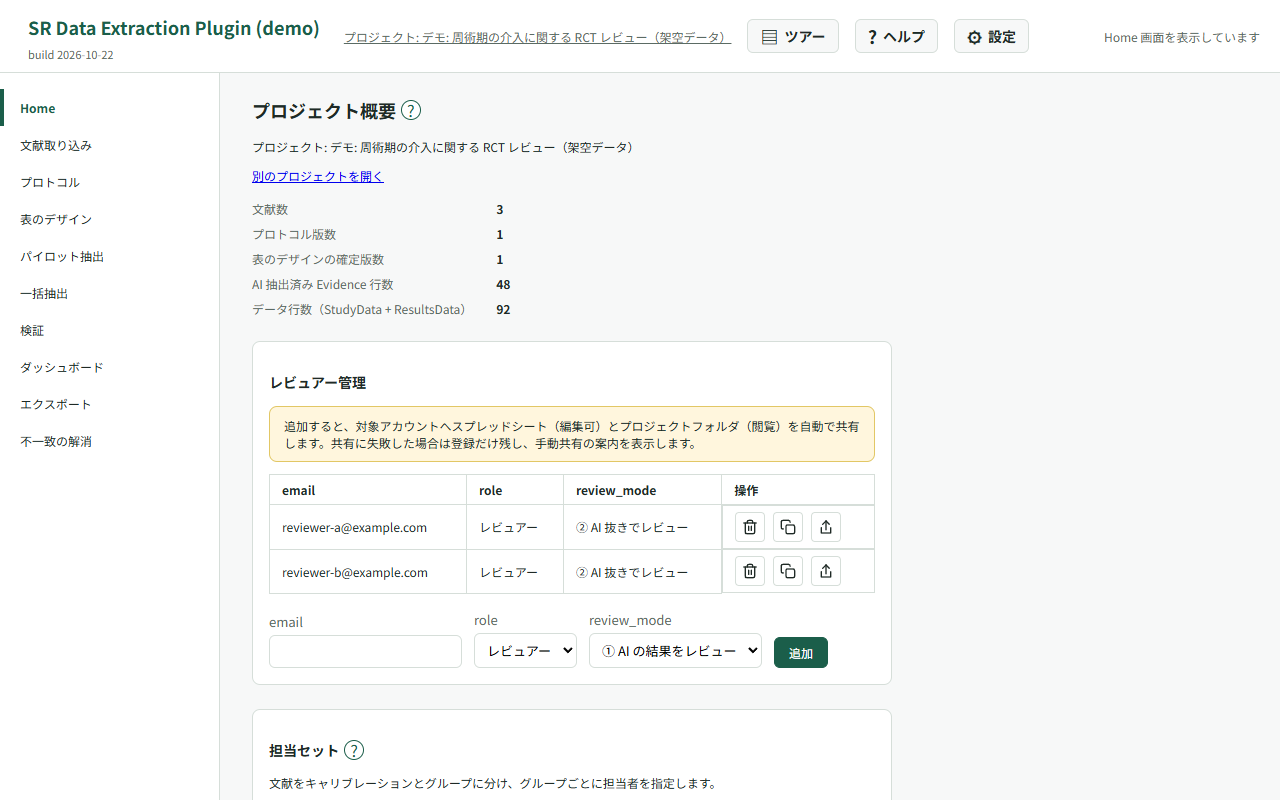
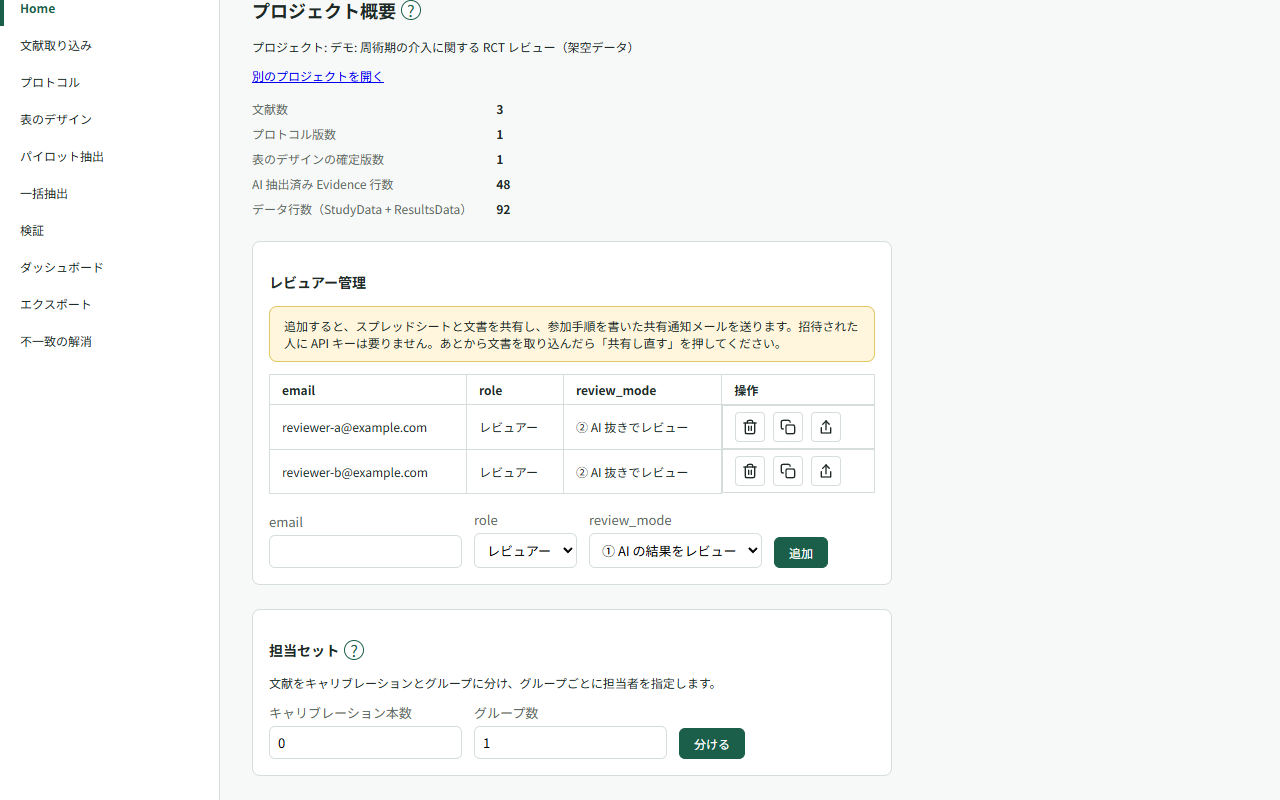
公開ページを再デプロイ（2026-11-03・master 82421c3）

diff --git a/help.html b/help.html
@@ -3,7 +3,7 @@
      正典はこのファイル（master の hosted/）。デプロイ手順は hosted/README.md を参照。
      内容はワークフローレベルに留める（画面細部はアプリ内のリード文が担う。issue #214 §3）。
      文言は ja / en を両方持ち、表示は lang.js + CSS が片方だけに絞る（併記しない）。
-     version: 2026-10-22 -->
+     version: 2026-11-03 -->
 <html lang="ja">
   <head>
     <meta charset="utf-8" />
@@ -53,8 +53,8 @@
           <span class="en" lang="en">User guide</span>
         </h1>
         <p class="last-updated">
-          <span class="ja" lang="ja">最終更新: 2026-10-22 / 対象バージョン: v0.21.0</span>
-          <span class="en" lang="en">Last updated: 2026-10-22 / Covers v0.21.0</span>
+          <span class="ja" lang="ja">最終更新: 2026-11-03 / 対象バージョン: v0.25.1</span>
+          <span class="en" lang="en">Last updated: 2026-11-03 / Covers v0.25.1</span>
         </p>
 
         <nav class="toc" aria-label="目次" data-en-aria-label="Table of contents">
@@ -600,18 +600,18 @@
           </h3>
           <p>
             <span class="ja" lang="ja"
-              >文献を取り込んだら、オーナーが Home の「担当セット」で「キャリブレーション本数」と「グループ数」を入力し、「分ける」を押します。文献が無作為に分割され、キャリブレーションは全員の対象になります。各グループには担当者のメールアドレスをカンマ区切りで入力し、「保存」を押します。</span
+              >文献を取り込んだら、オーナーが Home の「担当セット」で「キャリブレーション本数」と「グループ数」を入力し、「分ける」を押します。除外した文献は割り振りの対象になりません。文献が無作為に分割され、キャリブレーションは全員の対象になります。各グループには担当者のメールアドレスをカンマ区切りで入力し、「保存」を押します。</span
             >
             <span class="en" lang="en"
-              >After importing studies, the owner opens “Review sets” on Home, enters “Calibration studies” and “Number of groups”, then presses “Split”. Studies are randomly divided, with calibration studies assigned to everyone. Enter comma-separated reviewer email addresses for each group and press “Save”.</span
+              >After importing studies, the owner opens “Review sets” on Home, enters “Calibration studies” and “Number of groups”, then presses “Split”. Excluded documents are not included when assigning review sets. Studies are randomly divided, with calibration studies assigned to everyone. Enter comma-separated reviewer email addresses for each group and press “Save”.</span
             >
           </p>
           <p>
             <span class="ja" lang="ja"
-              >担当セットを使うと、レビュアーの検証対象はキャリブレーションと自分の担当グループに絞られます。オーナーは検証画面の「自分の担当のみ」で絞り込めます。追加した文献は「未割当の study」から割り当てます。「分け直す」は確認後、すべてのアクティブな試験の担当セットを上書きします。</span
+              >担当セットを使うと、レビュアーの検証対象はキャリブレーションと自分の担当グループに絞られます。担当文献をすべて除外しても担当外の文献は表示されず、対象は 0 件になります。検証画面の一覧では、キャリブレーションの文献に［キャリブレーション］と表示され、先頭に並びます。オーナーは検証画面の「自分の担当のみ」で絞り込めます。追加した文献は「未割当の study」から割り当てます。「分け直す」は確認後、すべてのアクティブな試験の担当セットを上書きします。</span
             >
             <span class="en" lang="en"
-              >With review sets in use, reviewers see calibration studies and their assigned groups in verification. The owner can filter with “Only my assigned studies”. Assign newly added studies under “Unassigned studies”. After confirmation, “Split again” replaces the assignments for all active studies.</span
+              >With review sets in use, reviewers see calibration studies and their assigned groups in verification. If all assigned studies are excluded, the list is empty and studies outside their assignments remain hidden. In the verification list, calibration studies are labeled [Calibration] and appear first. The owner can filter with “Only my assigned studies”. Assign newly added studies under “Unassigned studies”. After confirmation, “Split again” replaces the assignments for all active studies.</span
             >
           </p>
           <p>
@@ -1504,12 +1504,12 @@
             <span class="ja" lang="ja"
               >2 名で独立に抽出し、不一致を裁定する運用に対応しています。オーナーが Home
               の「レビュアー管理」で共同研究者のメールアドレスを登録し、モード（AI 抽出を見ながらの検証 = with AI / AI
-              を見ずに自分で入力 = independent）を選びます。「フォルダ未共有」が表示されたら、その行の「フォルダを共有し直す」でシートとフォルダを共有し直せます。共有に失敗した場合は、カード内の警告に従って Drive から手動で共有してください。</span
+              を見ずに自分で入力 = independent）を選びます。追加すると、参加手順を書いた共有通知メールが相手に届き、行の「レビュー依頼文をコピー」でも同じ文面をコピーできます。招待された人に API キーは要らず、質問パネルを使うときだけ各自のキーを設定します。「未共有のファイルあり」が表示されたら、その行の「共有し直す」でシートとフォルダを共有し直せます。フォルダで共有できないときは、除外していない文書の PDF と抽出テキストを 1 つずつ共有します。あとから文書を取り込んだ場合も「共有し直す」を押してください。共有に失敗した場合は、カード内の警告に従って Drive から手動で共有してください。</span
             >
             <span class="en" lang="en"
               >Two reviewers can extract independently and have disagreements adjudicated. The owner registers
               collaborators by email under “Reviewer management” on Home and picks their mode (verify with AI, or
-              independent entry without seeing AI output). If “Folder not shared” appears, use “Share the folder again” on that row to share the sheet and folder again. If sharing fails, follow the warning in the card to share manually in Drive.</span
+              independent entry without seeing AI output). Adding a collaborator sends them a sharing notification email with instructions for joining; “Copy the review invitation” on the row copies the same text. Invitees do not need an API key unless they use the question panel, which requires their own key. If “Some files not shared” appears, use “Share again” on that row to share the sheet and folder again. If folder sharing fails, PDFs and extracted text for non-excluded documents are shared one file at a time. Use “Share again” after importing more documents too. If sharing fails, follow the warning in the card to share manually in Drive.</span
             >
           </p>
           <figure class="shot shot--screen">
@@ -1799,11 +1799,13 @@
             <li>
               <span class="ja" lang="ja"
                 ><strong>保存して接続を確認</strong>: 押すと、設定を保存し、モデル一覧を取得し（取得できる方式のみ）、選んだモデルで短い呼び出しを送って、結果を
-                1 行で表示します。失敗したときは、API キーが受け付けられなかったのか、モデルがその方式に無いのかなど、どこで失敗したかを示します。取得したモデルは、スキーマ・パイロット・一括抽出の画面のモデル選択にも出ます。</span
+                1 行で表示します。Gemini の無料の API キーでは確認に数分かかることがあり、10 秒後から経過秒数を表示します。設定は保存済みなので、別の画面へ移っても構いません。5 分で確認を打ち切ります。失敗したときは、API キーが受け付けられなかったのか、モデルがその方式に無いのかなど、どこで失敗したかを示します。取得したモデルは、スキーマ・パイロット・一括抽出の画面のモデル選択にも出ます。</span
               >
               <span class="en" lang="en"
                 ><strong>Save and check connection</strong>: saves the settings, fetches the model list (where the type
-                supports it), sends a short call with the chosen model, and shows the result on one line. On failure it
+                supports it), sends a short call with the chosen model, and shows the result on one line. A free Gemini
+                API key can take several minutes; elapsed seconds appear after 10 seconds. Your settings are already
+                saved, so you can move to another screen. The check gives up after 5 minutes. On failure it
                 says where it failed, for example a rejected API key or a model that the type does not have. Fetched
                 models also appear in the model choice on the schema, pilot and full-extraction screens.</span
               >
@@ -1935,11 +1937,17 @@
           <p>
             <span class="ja" lang="ja"
               >同じ理由です。Home の「プロジェクトファイルへのアクセスを付与」から Picker
-              を開き、表示されたファイル（PDF と抽出テキスト）を<strong>すべて選択</strong>してください。付与後にオーナーが新しい文献を追加した場合は「アクセスを付与し直す」でやり直します。一覧には未付与のファイルだけが表示されます。一覧が空のときは、フォルダが共有されていない可能性があります。オーナーに、レビュアー管理の「フォルダを共有し直す」を依頼してください。</span
+              を開き、表示されたファイル（PDF と抽出テキスト）を<strong>すべて選択</strong>してください。
+              確認に失敗したときは、エラーに読めなかったファイル名と種別が表示されます。
+              もう一度ボタンを押すと一覧が開き直すので、すべて選択し直してください。
+              付与後にオーナーが新しい文献を追加した場合は「アクセスを付与し直す」でやり直します。一覧には未付与のファイルだけが表示されます。一覧が空のときは、文書ファイルが共有されていない可能性があります。フォルダで共有できないときは文書ファイルを個別に共有します。オーナーに、レビュアー管理の「共有し直す」を依頼してください。</span
             >
             <span class="en" lang="en"
               >Same cause. Open the picker from “Grant access to project files” on Home and <strong>select them
-              all</strong> (PDFs and extracted text). If the owner adds documents later, use “Grant access again”. The list shows only files not yet granted. If it is empty, the folder may not be shared with you. Ask the owner to use “Share the folder again” under Reviewer management.</span
+              all</strong> (PDFs and extracted text).
+              If the access check fails, the error shows the filename and type of the file that could not be read.
+              Click the button again to reopen the list and select all files again.
+              If the owner adds documents later, use “Grant access again”. The list shows only files not yet granted. If it is empty, document files may not be shared with you. If folder sharing fails, files are shared individually. Ask the owner to use “Share again” under Reviewer management.</span
             >
           </p>
 
